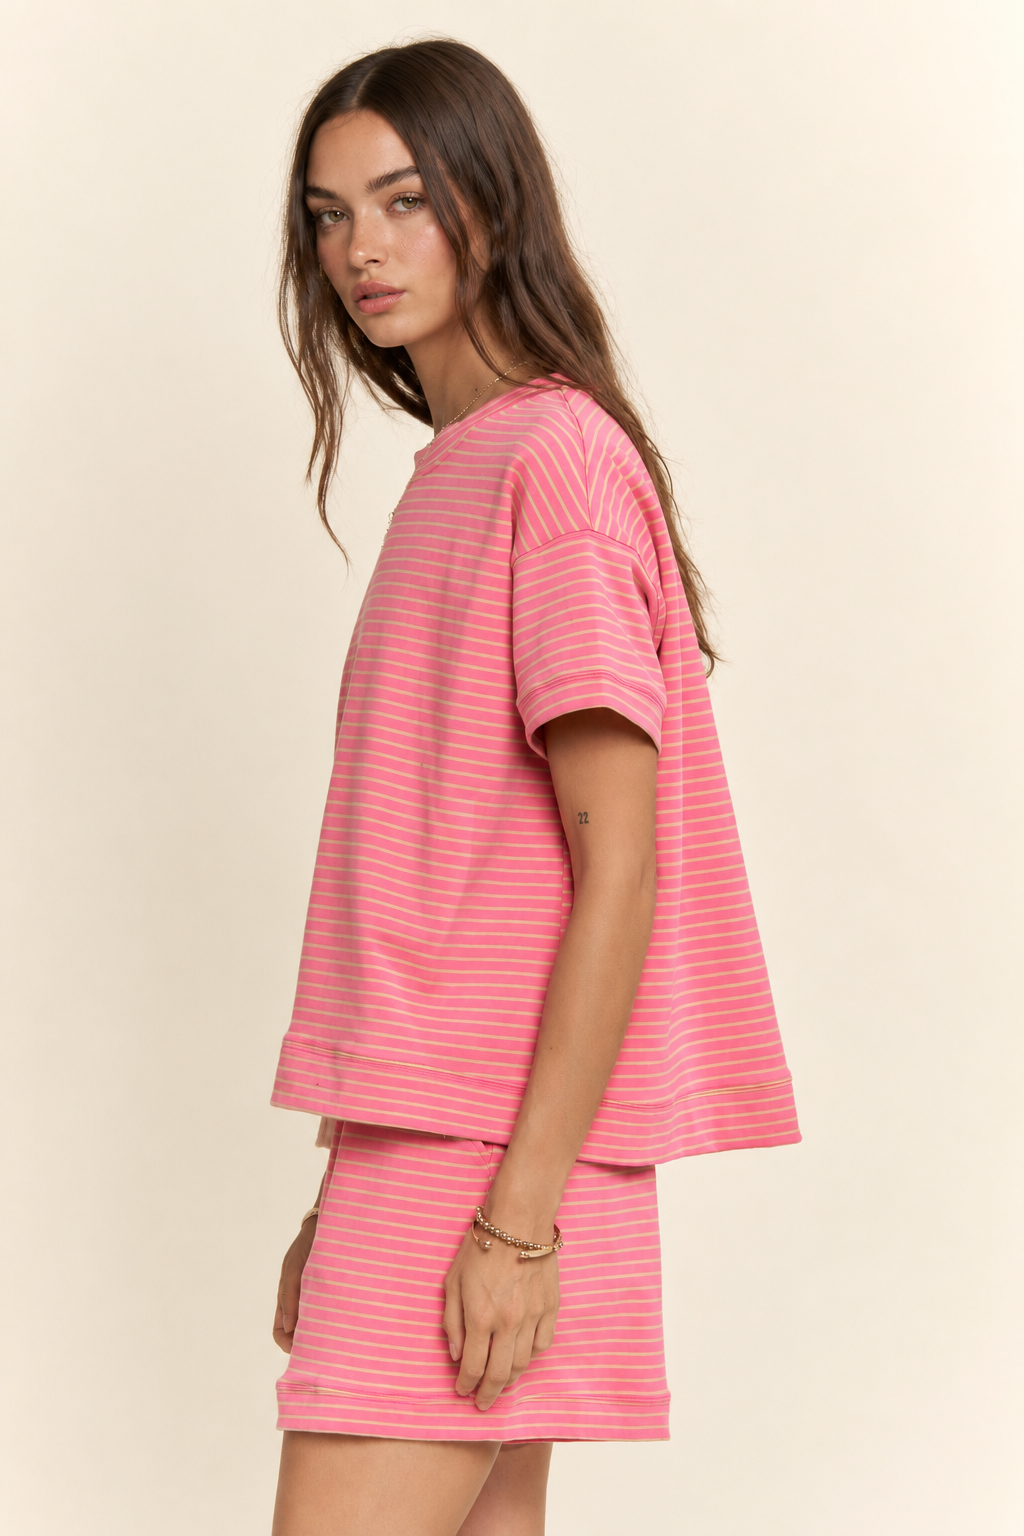
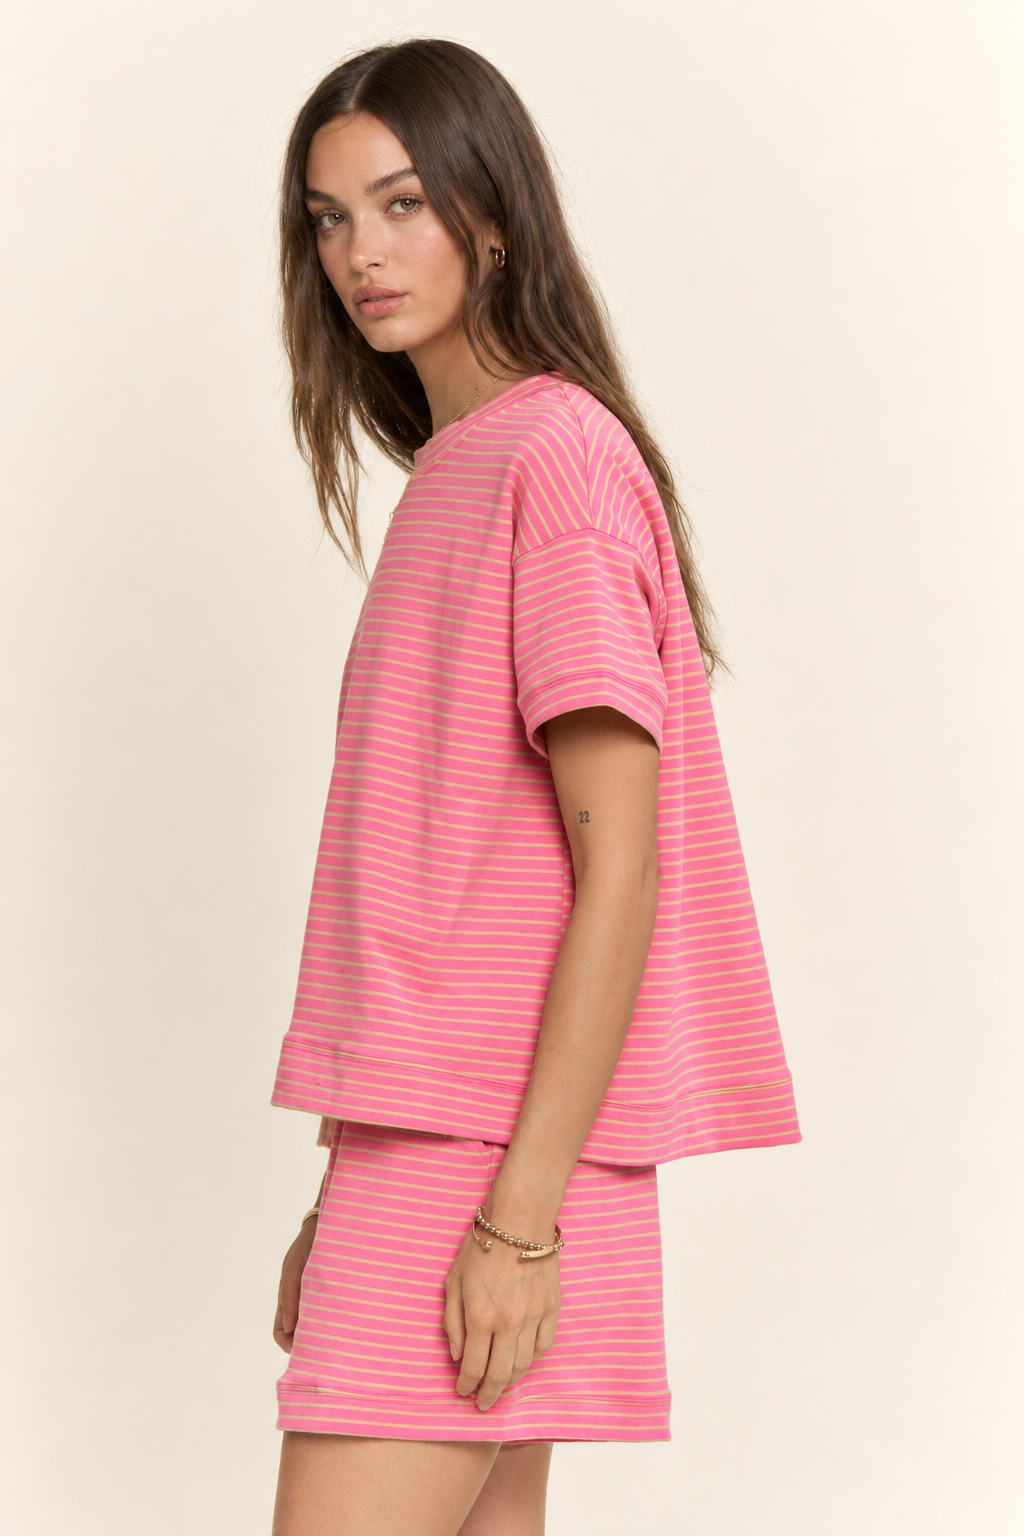
assets: refine Vision and Celine references with clearer faces and natural proportions

diff --git a/.agents/handoff.md b/.agents/handoff.md
@@ -1,6 +1,6 @@
 # Handoff — davidani-studio
 
-Written 2026-09-09T05:56:43+00:00 by Codex. Branch main; last implementation 1470179 (reset b9edd97).
+Written 2026-09-09T05:56:43+00:00 by Codex. Branch main; previous commit f7b69e8; reference revision 2 in this commit.
 
 ## Accomplished
 - David rejected the current reference library and requested just Vision/Celine,
@@ -9,21 +9,23 @@ Written 2026-09-09T05:56:43+00:00 by Codex. Branch main; last implementation 147
   public/models/hide/retired-before-detp58027-2026-09-09/ (includes old plates.json).
 - New studio 97 = Vision, studio 98 = Celine; four linked PNGs each.
 - Originals: front _6 (byte-identical to attachment), side _8, back _11, full _2.
-- One built-in imagegen head/hair edit per original/identity: 8 calls, no chains,
-  generated poses, expression variants, outfit replacements or AI upscale.
+- Revision 2: David approved clearer side retries with fuller head/shorter neck.
+  Six new front/back/full edits from originals + faces; approved sides reused.
+  revision-02/ holds all eight outputs/prompts/ZIPs; no edit chains or upscale.
 - Originals 2000x3000; outputs native 1024x1536, no upsampling disguised as detail.
 - crop 97/98 reuse front/side/back bytes. low 97/98 are face-free pixel crops of
   original _2 and _7, preserving pants workflow with no additional generation.
 - Added metadata display_name so identities show as Vision/Celine; rebuilt manifest.
 - /api/models and both page initializers hide internal crops; sidebar shows both faces.
-- Validation: 723 tests pass; production build passes; image sets visually inspected.
+- Revision validation: 23 registry/metadata/API tests pass; eight native PNGs and
+  matching crop bytes checked; both four-view sets visually inspected.
 - Source photos, PNGs, prompts, ZIPs and review sheets are in faire-management:
   output/imagegen/detp58027-house-references/.
 
 ## Next steps
-1. LIVE verified: Vercel deployed 1470179; catalog has exactly Vision/Celine and
-   all eight deployed PNGs match local bytes. Refresh Model Studio to reload catalog.
-2. David reviews the new sets. Revisions should start from the original shoot photos
+1. Verify revision 2 deployment and all eight live PNG bytes; refresh Studio.
+   Previous revision is live; IDs/catalog are unchanged (97 Vision / 98 Celine).
+2. David reviews remaining views. Revisions should start from original shoot photos
    and original identity refs, not re-generate an already edited reference.
 3. Model generation engine stays GPT Image 2.5 by default; no pipeline prompt change.
 
